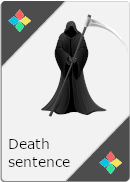
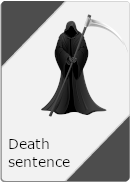
summon keeps turn, death sent not changing color

Changed region(s): [[0.7692, 0.8242, 0.9538, 0.9615], [0.0615, 0.0549, 0.2462, 0.1923]]

diff --git a/Web/ClientApp/src/app/_components/_modals/pick-any-card/pick-any-card.component.ts b/Web/ClientApp/src/app/_components/_modals/pick-any-card/pick-any-card.component.ts
@@ -10,6 +10,8 @@ import { UtilityService } from "src/app/_services/utility.service";
   styleUrls: ["./pick-any-card.component.css"]
 })
 export class PickAnyCardComponent implements OnInit {
+  @Input() bannedCards: CardValue[];
+  
   selectedCardToReturn: CardValue = null;
 
   private _allCards: KeyValue<string, number>[];
@@ -24,8 +26,8 @@ export class PickAnyCardComponent implements OnInit {
 
   ngOnInit() {
     this._allCards = this._utilityService.allCards;
-    this.standardCards = this._allCards.filter(x => x.value < 15);
-    this.specialCards = this._allCards.filter(x => x.value > 14);
+    this.standardCards = this._allCards.filter(x => x.value < 15 && this.bannedCards.indexOf(x.value)==-1);
+    this.specialCards = this._allCards.filter(x => x.value > 14 && this.bannedCards.indexOf(x.value)==-1);
   }
 
   closeModal() {

diff --git a/Web/ClientApp/src/app/_components/help/help.component.html b/Web/ClientApp/src/app/_components/help/help.component.html
@@ -401,7 +401,7 @@
               <h5 class="mt-0 mb-1">Summon Wildcard</h5>
               If the player activates the special effect of the card, they must draw 3 cards (not affected by double draw or king's decree), and can summon any wildcard to their hand if the
               card exists in the deck or the discarded pile. Player also keeps their turn if they activate the effect. If the
-              player doesn't activate the effect, they must draw 1 card and they lose their turn.
+              player doesn't activate the effect, they must draw 1 card and but they will still keep their turn.
             </div>
           </li>
           <li class="media my-2">

diff --git a/Web/ClientApp/src/app/_services/play-card.service.ts b/Web/ClientApp/src/app/_services/play-card.service.ts
@@ -101,7 +101,9 @@ export class PlayCardService {
               return;
             });
           } else if (cardPlayed.value == CardValue.assassinate) {
-            this._modalService.displayPickAnyCardModal().result.then((selectedCard: CardValue) => {
+           var anyCardModal= this._modalService.displayPickAnyCardModal();
+           anyCardModal.componentInstance.bannedCards = game.gameSetup.bannedCards;
+           anyCardModal.result.then((selectedCard: CardValue) => {
               this._hubService.playCard(cardPlayed.id, pickedColor, playerId, null, null, null, 0, null, null, null, false, selectedCard);
               return;
             });

diff --git a/Web/ClientApp/src/app/_components/change-log/change-log.component.html b/Web/ClientApp/src/app/_components/change-log/change-log.component.html
@@ -4,6 +4,17 @@
     <h2 class="text-primary">Changelog:</h2>
     <ul class="list-group">
       <li class="list-group-item">
+        <strong>14-12-2019:</strong>
+        <ul>
+          <li>
+            Summon wild card change - player will now keep their turn even if they choose not to activate the effect of the card
+          </li>
+          <li>
+            Death sentence change - card does not allow you to change the color any more
+          </li>
+        </ul>
+      </li>
+      <li class="list-group-item">
         <strong>12-12-2019:</strong>
         <ul>
           <li>

diff --git a/GameProcessingService/CardEffectProcessors/Played/Wild/CopyCatEffectProcessor.cs b/GameProcessingService/CardEffectProcessors/Played/Wild/CopyCatEffectProcessor.cs
@@ -1,4 +1,5 @@
 using System.Collections.Generic;
+using System.Linq;
 using Common.Enums;
 using EntityObjects;
 using GameProcessingService.CoreManagers;
@@ -20,7 +21,7 @@ namespace GameProcessingService.CardEffectProcessors.Played.Wild
         {
             var messagesToLog = new List<string>();
             var cardToCopy = moveParams.PreviousLastCardPlayed.OriginalCardPlayer;
-            var messageToLog = $"{moveParams.PlayerPlayed.User.Name} played copycat. He copied {cardToCopy.Value.ToString()} and kept their turn.";
+            var messageToLog = $"{moveParams.PlayerPlayed.User.Name} played copycat. They copied {cardToCopy.Value.ToString()} and kept their turn.";
             if (game.CardValuesRemovedFromTheRound.Contains(cardToCopy.Value))
             {
                 messageToLog += "Card was not copied, it was removed from the game by the death sentence.";
@@ -28,6 +29,10 @@ namespace GameProcessingService.CardEffectProcessors.Played.Wild
             else
             {
                 moveParams.PlayerPlayed.Cards.Add(cardToCopy);
+                if (game.DiscardedPile.Contains(cardToCopy))
+                {
+                    game.DiscardedPile.Remove(cardToCopy);
+                }
             }
             var previousPlayer = _gameManager.GetNextPlayer(game, moveParams.PlayerPlayed, game.Players, true);
             game.PlayerToPlay = previousPlayer;

diff --git a/GameProcessingService/CardEffectProcessors/Played/Wild/AssassinateEffectProcessor.cs b/GameProcessingService/CardEffectProcessors/Played/Wild/AssassinateEffectProcessor.cs
@@ -23,7 +23,7 @@ namespace GameProcessingService.CardEffectProcessors.Played.Wild
         public MoveResult ProcessCardEffect(Game game, MoveParams moveParams)
         {
             var messagesToLog = new List<string>();
-            var messageToLog = $"{moveParams.PlayerPlayed.User.Name} played Assassinate. He targeted {moveParams.PlayerTargeted.User.Name} and assassinated card {moveParams.TargetedCardValue.ToString()}. ";
+            var messageToLog = $"{moveParams.PlayerPlayed.User.Name} played Assassinate. They targeted {moveParams.PlayerTargeted.User.Name} and assassinated card {moveParams.TargetedCardValue.ToString()}. ";
 
 
             var automaticallyTriggeredResultMagneticPolarity = _automaticallyTriggeredCardEffectProcessors.First(x => x.CardAffected == CardValue.MagneticPolarity).ProcessCardEffect(game, messageToLog, new AutomaticallyTriggeredParams() { MagneticPolarityParams = new AutomaticallyTriggeredMagneticPolarityParams(moveParams.TargetedCardColor, moveParams.PlayerPlayed, moveParams.PlayerTargeted) });

diff --git a/EntityObjects/Cards/Wild/SummonWildcard.cs b/EntityObjects/Cards/Wild/SummonWildcard.cs
@@ -17,7 +17,7 @@ namespace EntityObjects.Cards.Wild
         public string ImageUrl { get; }
         public bool RequirePickColor => true;
         public bool RequireTargetPlayer => false;
-        public string Description => "If the player activates the special effect of the card, they must draw 3 cards (not affected by double draw or king's decree), and can summon any wildcard to their hand if the card exists in the deck or the discarded pile.Player also keeps their turn if they activate the effect. If the player doesn't activate the effect, they must draw 1 card and they lose their turn.";
+        public string Description => "If the player activates the special effect of the card, they must draw 3 cards (not affected by double draw or king's decree), and can summon any wildcard to their hand if the card exists in the deck or the discarded pile.Player also keeps their turn if they activate the effect. If the player doesn't activate the effect, they must draw 1 card but they will still keep their turn.";
 
     }
 }

diff --git a/GameProcessingService/CardEffectProcessors/Played/Wild/SummonWildcardEffectProcessor.cs b/GameProcessingService/CardEffectProcessors/Played/Wild/SummonWildcardEffectProcessor.cs
@@ -49,16 +49,16 @@ namespace GameProcessingService.CardEffectProcessors.Played.Wild
                 }
 
                 _gameManager.DrawCard(game, moveParams.PlayerPlayed, 3, false);
-
-                var previousPlayer = _gameManager.GetNextPlayer(game, moveParams.PlayerPlayed, game.Players, true);
-                game.PlayerToPlay = previousPlayer;
             }
             else
             {
-                messageToLog += $"{moveParams.PlayerPlayed.User.Name} did not activate the effect of the card. They will draw 1 card. ";
+                messageToLog += $"{moveParams.PlayerPlayed.User.Name} did not activate the effect of the card. They will draw 1 card and keep their turn. ";
                 _gameManager.DrawCard(game, moveParams.PlayerPlayed, 1, false);
+       
             }
 
+            var previousPlayer = _gameManager.GetNextPlayer(game, moveParams.PlayerPlayed, game.Players, true);
+            game.PlayerToPlay = previousPlayer;
 
 
             messagesToLog.Add(messageToLog);

diff --git a/EntityObjects/Cards/Wild/DeathSentence.cs b/EntityObjects/Cards/Wild/DeathSentence.cs
@@ -10,12 +10,13 @@ namespace EntityObjects.Cards.Wild
         {
             Id = Guid.NewGuid().ToString();
             ImageUrl = $"/images/cards/small/{(int)Color}/{Convert.ToInt32(limitColorChangingCards)}/{(int)Value}.png";
+            RequirePickColor = !limitColorChangingCards;
         }
         public string Id { get; }
         public CardColor Color => CardColor.Wild;
         public CardValue Value => CardValue.DeathSentence;
         public string ImageUrl { get; }
-        public bool RequirePickColor => true;
+        public bool RequirePickColor { get; }
         public bool RequireTargetPlayer => false;
         public string Description => "After choosing a wild card, that card will be completely removed from the game (only for that round), the card also cannot be summoned by the summon wild card card.";
 
